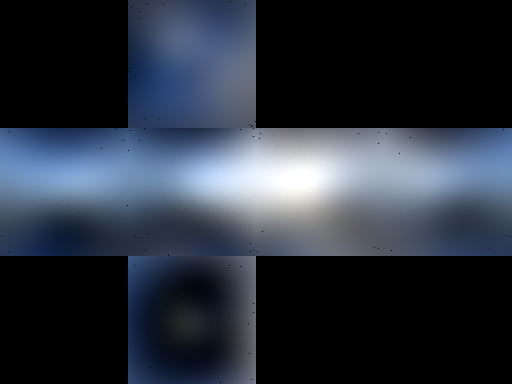
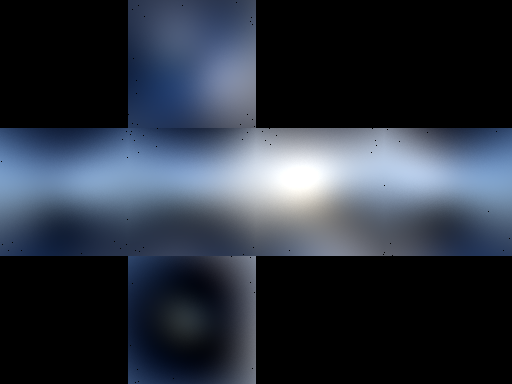
add rebuilt png result of 1 - 8 level

diff --git a/Assets/UnitTest/SH/SH.cs b/Assets/UnitTest/SH/SH.cs
@@ -32,31 +32,31 @@ public class SH : MonoBehaviour
 
     private void OnGUI()
     {
-        // if (GUI.Button(new Rect(0, 0, 200, 100), "Generate SH_3 Coefficient"))
-        // {
-        //     using (Timer timer = new Timer("CalculateSHCoefficient", Timer.ETimerUnit.Millisecond))
-        //     {
-        //         m_shCoefficients = CalculateCoefficientSH_3(skyCubemap, m_rndPoints);
-        //     }
-        // }
-        //
-        // if (GUI.Button(new Rect(200, 0, 200, 100), "Rebuild SH_3 To Cubemap"))
-        // {
-        //     using (Timer timer = new Timer("RebuildCubemap", Timer.ETimerUnit.Millisecond))
-        //     {
-        //         m_rebuiltCubemap = RebuildSH3ToCubemap(skyCubemap.width, m_shCoefficients, 1024 * 1024);
-        //         // skyboxMaterial.SetTexture("_SkyboxTex", m_rebuiltCubemap);
-        //         // RenderSettings.skybox = skyboxMaterial;
-        //     }
-        // }
+        if (GUI.Button(new Rect(0, 0, 200, 100), "Generate SH_3 Coefficient"))
+        {
+            using (Timer timer = new Timer("CalculateSHCoefficient", Timer.ETimerUnit.Millisecond))
+            {
+                m_shCoefficients = CalculateCoefficientSH_3(skyCubemap, m_rndPoints);
+            }
+        }
         
-        // if (GUI.Button(new Rect(400, 0, 200, 100), "Save Cubemap To Png"))
-        // {
-        //     using (Timer timer = new Timer("SaveCubeToPng", Timer.ETimerUnit.Millisecond))
-        //     {
-        //         SaveCubeAsPng(m_rebuiltCubemap, "RebuildSH3");
-        //     }
-        // }
+        if (GUI.Button(new Rect(200, 0, 200, 100), "Rebuild SH_3 To Cubemap"))
+        {
+            using (Timer timer = new Timer("RebuildCubemap", Timer.ETimerUnit.Millisecond))
+            {
+                m_rebuiltCubemap = RebuildSH3ToCubemap(skyCubemap.width, m_shCoefficients, 1024 * 1024);
+                // skyboxMaterial.SetTexture("_SkyboxTex", m_rebuiltCubemap);
+                // RenderSettings.skybox = skyboxMaterial;
+            }
+        }
+        
+        if (GUI.Button(new Rect(400, 0, 200, 100), "Save Cubemap To Png"))
+        {
+            using (Timer timer = new Timer("SaveCubeToPng", Timer.ETimerUnit.Millisecond))
+            {
+                SaveCubeAsPng(m_rebuiltCubemap, "RebuildSH3");
+            }
+        }
         
         if (GUI.Button(new Rect(0, 100, 200, 100), "Generate SH_N Coefficient"))
         {
@@ -71,7 +71,7 @@ public class SH : MonoBehaviour
         {
             using (Timer timer = new Timer("Rebuild Optimized", Timer.ETimerUnit.Millisecond))
             {
-                m_rebuiltCubemap2 = RebuildToCubemap(skyCubemap.width, m_shCoefficients2, 512 * 512);
+                m_rebuiltCubemap2 = RebuildToCubemap(skyCubemap.width, m_shCoefficients2, 1024 * 1024);
             }
         }
 
@@ -314,11 +314,8 @@ public class SH : MonoBehaviour
             Vector3 rndPoint = rndPoints[i];
             CubemapFace face = GetCubemapFace(rndPoint);
             Vector2 uv = GetUV(face, rndPoint);
-            // int coordX = (int) (cubemap.width * uv.x);     // [0, width - 1] //
-            // int coordY = (int) (cubemap.height * uv.y);    // [0, height - 1] //
-            // int colorIndex = coordY * cubemap.width + coordX;
             int pixelIndex = GetPixelIndex(cubemap.width, uv);
-            Color sourceColor = faceColors[(int) face][pixelIndex];
+            Color randiance = faceColors[(int) face][pixelIndex];
 
             float theta = 0;
             float phi = 0;  
@@ -335,12 +332,10 @@ public class SH : MonoBehaviour
             
             for (int j = 0; j < shCoefficients.Length; j++)
             {
-                // Vector4 coefficient = shCoefficients[j];
                 float shBasis = shBases[j];
-                shCoefficients[j].x += sourceColor.r * shBasis;
-                shCoefficients[j].y += sourceColor.g * shBasis;
-                shCoefficients[j].z += sourceColor.b * shBasis;
-                // shCoefficients[j] = coefficient;
+                shCoefficients[j].x += randiance.r * shBasis;
+                shCoefficients[j].y += randiance.g * shBasis;
+                shCoefficients[j].z += randiance.b * shBasis;
             }
         }
 

diff --git a/Assets/UnitTest/SH/SHCoefficient2.cs b/Assets/UnitTest/SH/SHCoefficient2.cs
@@ -137,10 +137,4 @@ public class SHCoefficient2
     {
         return Mathf.Cos(radian);
     }
-    
-    private static void IndexToLM(int index, out int l, out int m)
-    {
-        l = (int)Mathf.Sqrt(index);
-        m = index - l * (l + 1);
-    }
 }
